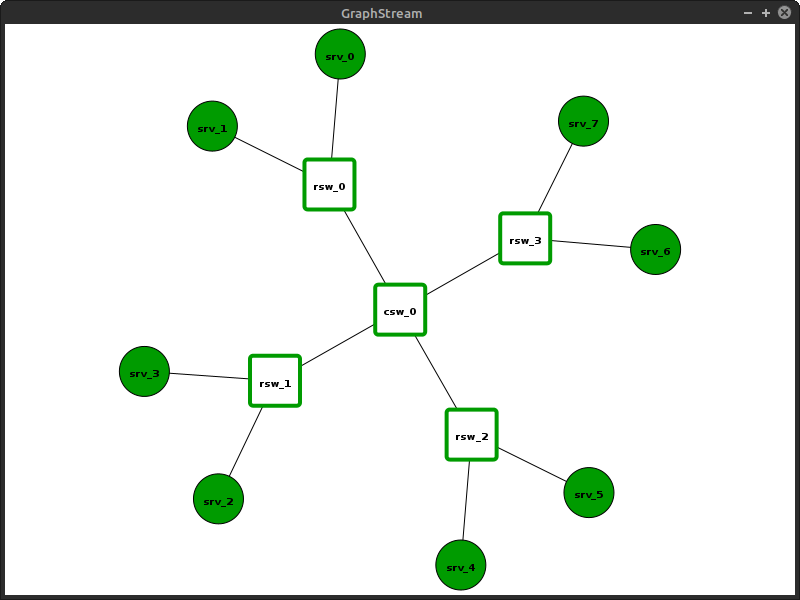
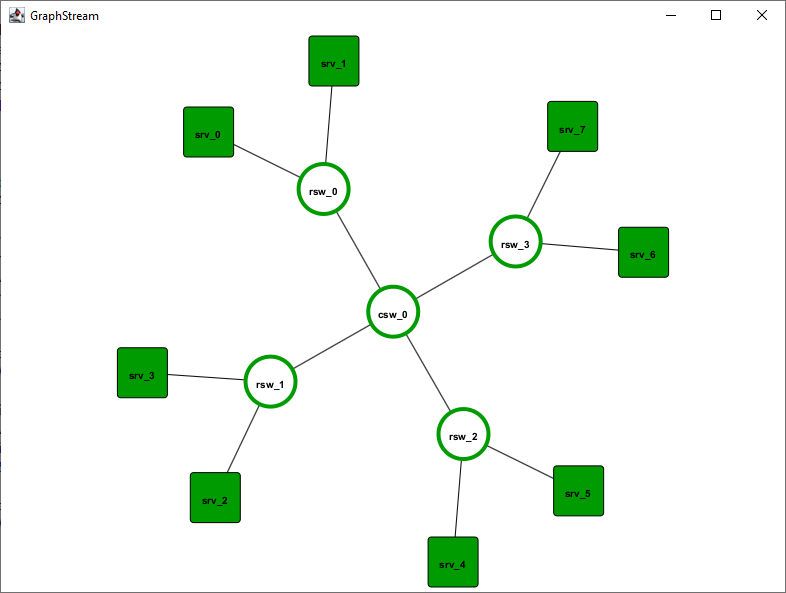
Adapts screenshots to new UI + extends README.md

diff --git a/README.md b/README.md
@@ -88,6 +88,10 @@ To start them, follow this step:
 
 For easier debugging purposes, a basic GUI for visualizing networks is implemented in the project [network.visualization](network.visualization/) based on [GraphViz](http://www.graphviz.org/download/).
 Currently, it can render tree-based networks as tree structures or use the automatic mode of GraphViz from a model file `model.xmi` in the [examples project](examples/).
+Therefore, launch the class `Ui` with these arguments: `../examples/model.xmi sub 1`
+* `../examples/model.xmi` is the path of the model to read.
+* `sub` is the name of the (substrate) network to visualize.
+* `1` configures the automatic layout. You can also chose `0` to use a tree-like layout.
 
 ![](gfx/gui-tree.png)
 ![](gfx/gui-auto.png)
